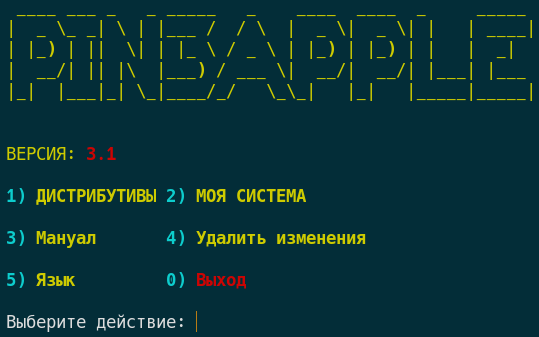
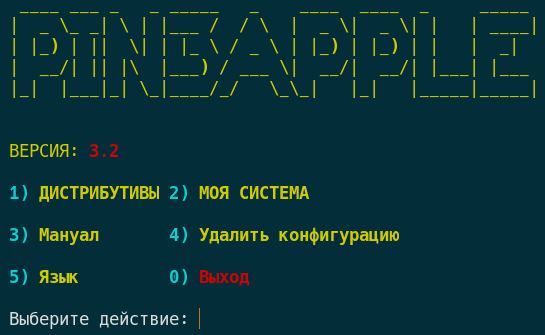
1) Language menu some little changes. 2) Ubuntu support has been suspended... 3)

diff --git a/src/pineapple-ru.py b/src/pineapple-ru.py
@@ -24,7 +24,7 @@ myos = platform.platform()
 
 #  languages
 def language():
-	print("\n 1)РУССКИЙ \n\n 2)English\n\n 5)Назад \n\n 0)[red b]Выход\n\n")
+	print("\n 1) 🇷🇺 РУССКИЙ \n\n 2) 🇬🇧 English \n\n 5) Назад \n\n 0) [red b]Выход\n\n")
 	
 	lang = input(" Выберите язык/Choose language: ")
 
@@ -49,8 +49,8 @@ def info():
 # главное меню
 def menu():
 	import os
-	print("\n [b cyan]1)[yellow] ДИСТРИБУТИВЫ [b cyan]2) [yellow]МОЯ СИСТЕМА")
-	print("\n [b cyan]3)[yellow] Мануал       [b cyan]4) [yellow]Удалить конфигурацию[cyan]\n\n 5) [yellow]Язык [cyan]        0) [red]Выход \n")
+	print("\n [b cyan]1)[yellow b] ДИСТРИБУТИВЫ [b cyan]2) [yellow b]МОЯ СИСТЕМА")
+	print("\n [b cyan]3)[yellow b] Мануал       [b cyan]4) [yellow b]Удалить конфигурацию[cyan]\n\n 5) [yellow b]Язык [cyan]        0) [red]Выход \n")
 	wtd = input(" Выберите действие: ")
 	print("")
 
@@ -81,7 +81,9 @@ def distros():
 	dist = input(" Выберите ваш дистрибутив: ")
 	# логика установки
 	if dist == "1":
-		os.system('sh src/distros/Ubuntu/ubuntu.sh') 
+		print("\n[red b] Поддержка Ubuntu приостановлена...")
+		distros()
+		# os.system('sh src/distros/Ubuntu/ubuntu.sh')
 	elif dist == "2":
 		os.system('sh src/distros/Solus/solus.sh')
 	elif dist == "3":

diff --git a/src/pineapple.py b/src/pineapple.py
@@ -24,7 +24,7 @@ myos = platform.platform()
 
 #  languages
 def language():
-	print("\n 1)РУССКИЙ \n\n 2)English\n\n 5)Back \n\n 0)[red b]Quit\n\n")
+	print("\n 1) 🇷🇺 РУССКИЙ \n\n 2) 🇬🇧 English \n\n 5) Back\n\n 0) [red b]Quit\n\n")
 	
 	lang = input(" Выберите язык/Choose language: ")
 
@@ -82,7 +82,9 @@ def distros():
 	dist = input(" Choose your distro: ")
 	# Install logic
 	if dist == "1":
-		os.system('sh src/distros/Ubuntu/ubuntu.sh') 
+		print('\n[red b]Ubuntu support has been suspended...')
+		distros()
+		# os.system('sh src/distros/Ubuntu/ubuntu.sh')
 	elif dist == "2":
 		os.system('sh src/distros/Solus/solus.sh')
 	elif dist == "3":

diff --git a/README.md b/README.md
@@ -27,6 +27,12 @@
 ![](src/assets/demo-dm-ru.png)
 
 
+
+#### Language selection menu / Меню выбора языка
+
+![](src/assets/demo-lang.png)
+
+
 ###### **2021 © [Avdushin](https://github.com/Avdushin)**
 
 ###### **Ananazz wallpapers by [Sergo](https://vk.com/s.sm1rn0f)**
